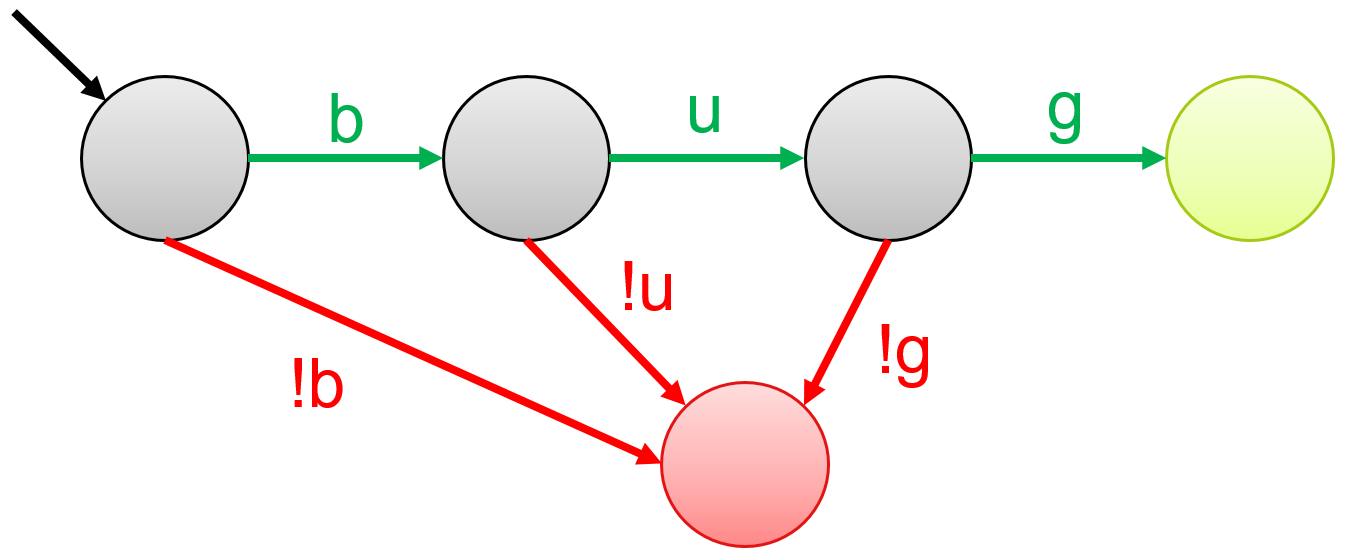
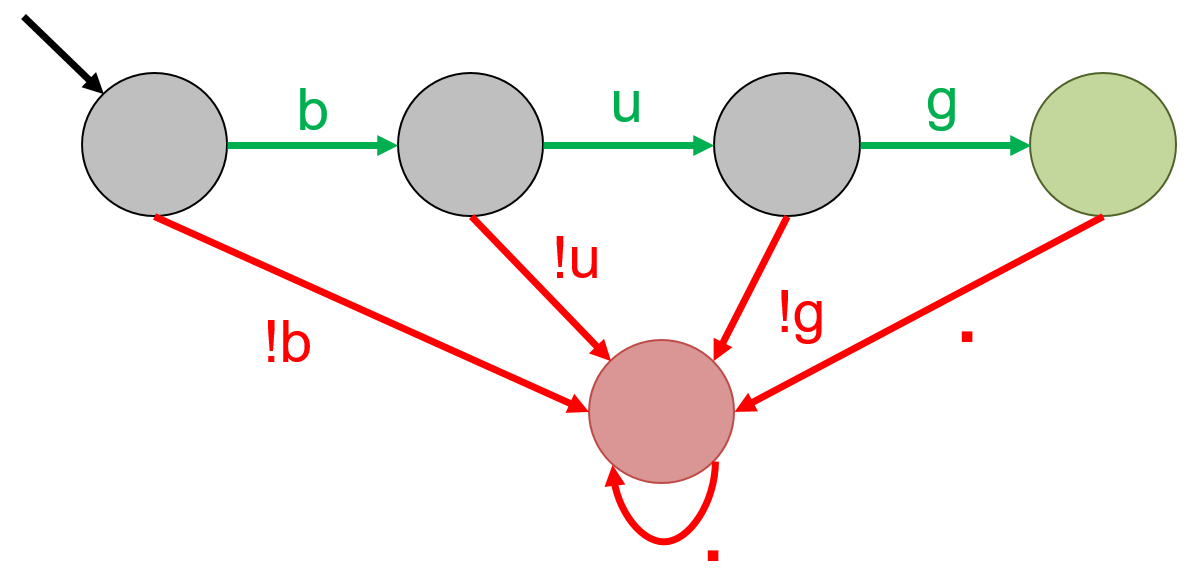
Improved readability for static testing chap

diff --git a/chapters/intelligent-testing/static-testing.md b/chapters/intelligent-testing/static-testing.md
@@ -11,30 +11,30 @@ The classical approach underlying static analysis is checking the code for poten
 
 ## Pattern matching
 
-Pattern matching is a code checking approach that searches for pre-defined patterns in code. A **Regular expression** or RegEx is a sequence of characters that represent a pattern. Simply put, a regex engine reads code character-by-character and upon every character-match, progresses through the regular expression until no more characters remain. Depending on the logic, either a positive/negative reaction is returned indicating whether the final state was an accepting/rejecting state, or all code snippets that matched the pattern are returned.
+Pattern matching is a code checking approach that searches for pre-defined patterns in code. A common way to represent a pattern is via **regular expressions** or RegEx. Simply put, a regex engine reads input character-by-character and upon every character-match, progresses through the regular expression until no more characters remain. In case a match cannot be found, the regex engine backtracks and tries alternate paths to find a match. Depending on the logic, either a positive/negative reaction is returned indicating whether a match was found or not, or all matching inputs are returned.
 
-Regular expressions are usually represented using ***Finite State Automaton***. Each _node_ represents a state. We move from one state to the next by taking the _transition_ that matches the input symbol. Below you see a few examples of regular expressions and their corresponding finite state automata. The node with a black arrow is called the _starting state_. _Green states_ are accepting states. Any state other than accepting states is a rejecting state, e.g. _red_ and _gray states_ are rejecting states in the examples below. Note that while traversing the automaton, if the final state is not an accepting state, the string is considered rejected.
+An easy way to visualize a regular expression is via ***Finite State Automaton***. Each _node_ represents a state. We move from one state to the next by taking the _transition_ that matches the input symbol. Below you see a few examples of regular expressions and their corresponding finite state automata. The node with a black arrow is called the _starting state_. _Green states_ are accepting states. Any state other than accepting states is a rejecting state, e.g. _red_ and _gray states_ are rejecting states in the examples below. Note that while traversing the automaton, if the final state is not an accepting state, the string is considered rejected.
 
-The automata for the regular expression '**bug**' is shown below. An input string `bug` will transition from left to right, until we end up in the green state. However, the string `bag` will move from first state to the second state, and then to the red state. Since there is no transition out of this state, we will stay here until the input finishes. Similarly, the string `bu` will also be rejected since its final state is not a green state.
+The automaton for the regular expression '**bug**' is shown below. `.` is a wildcard character that can match any possible character. An input string `bug` will transition from left to right, until we end up in the green state. However, the string `bag` will move from first state to the second state, and then to the red state. Since there is no transition out of this state, we will stay here until the input finishes. Similarly, the string `bu` will also be rejected since its final state is not a green state.
 
 
 
 ![FSM for bug](img/static-testing/regex1.png)
 
 
-Regex also have options to introduce wildcard characters. For example, the regular expression '**.\*bug**' results in the following automata. `.` denotes any possible character, and `*` denotes *0 or many times*. Hence, it accepts any string that ends in _bug_. The following strings will be accepted by this pattern: `bug`, `this is a bug`, `bad bug`, and `bugbug`. `bug!` will be rejected by this pattern. Note that this is a non-deterministic automata since there are two possible transitions for the symbol `b` in the first state.
+The regular expression '**.\*bug**' results in the following automaton. Again, `.` matches any possible character, and `*` denotes *0 or many times*. Hence, the regex accepts any string that ends in _bug_. The following strings will be accepted by this pattern: `bug`, `this is a bug`, `bad bug`, and `bugbug`. `bug!` will be rejected by this pattern. Note that this is a non-deterministic automata since there are two possible transitions for the symbol `b` in the first state.
 
 
 
 ![FSM for .*bug](img/static-testing/regex2.png)
 
 
-The automata for '**.\*bug.\***' is given below. It will accept any string that contains `b`, `u`, `g` consecutively, at least once. In this case, even `bug!` will be accepted.
+The automaton for '**.\*bug.\***' is given below. It will accept any string that contains `b`, `u`, `g` consecutively, at least once. In this case, even `bug!` will be accepted.
 
 
 ![FSM for .*bug.*](img/static-testing/regex3.png)
 
-While regular expressions are a fast and powerful pattern matching technique, their biggest limitation is that they don't take semantics into account, ending up with many false positives. For example, consider the following code snippet. Suppose that the regular expression, `\s*System.out.println\(.*\);`, searches for all print statements in the code to remove them before deployment. It will find three occurrences in the code snippet, which are all FPs because the code is already disabled by a flag.
+While regular expressions are a fast and powerful pattern matching technique, their biggest limitation is that they do not take semantics into account, ending up with many matches that are not meaningful. For example, consider the following code snippet. Suppose that the regular expression, `\s*System.out.println\(.*\);`, searches for all print statements in the code to remove them before deployment. It will find three occurrences in the code snippet, which are all meaningless because the code is already disabled by a flag.
 
 ```java
 boolean DEBUG = false;
@@ -48,7 +48,7 @@ if (DEBUG){
 
 ## Syntax analysis
 
-A more advanced code checking approach is syntax analysis. It works by deconstructing input code into a stream of characters, that are eventually turned into a Parse Tree. _Tokens_ are hierarchical data structures that are put together according to the code's logical structure.
+A more advanced code checking approach is syntax analysis. It works by deconstructing the input into a stream of characters, that are eventually turned into a Parse Tree. _Tokens_ are hierarchical data structures that are put together according to the code's logical structure.
 
 ![Parser pipeline](img/static-testing/lexer.png)
 
@@ -60,7 +60,7 @@ A **Parse Tree** is a concrete instantiation of the code, where each character i
 
 
 A static analysis tool using syntax analysis takes as input (a) an AST, and (b) a rule-set, and raises an alarm in case a rule is violated.
-For example, for a rule _allowing at most 3 methods_, and the following code snippet, the AST will be parsed and an error will be raised for violating the rule. Contrarily, a very complicated regular expression would be needed to handle the varying characteristics of the four available methods, potentially resulting in false positives.
+For example, for a rule _allowing at most 3 methods_, and the following code snippet, the AST will be parsed and an error will be raised for violating the rule. Contrarily, a very complicated regular expression would be needed to handle the varying characteristics of the four available methods, potentially resulting in mistakes.
 
 
 ![AST rule enforcement](img/static-testing/ast-usecase1.png)
@@ -70,9 +70,9 @@ Abstract Syntax Trees are used by compilers to find semantic errors &mdash; comp
 
 ## Performance of static analysis
 
- Typically, static analysis produces _sound_ results, i.e. zero false negatives. This is because the tools have access to the whole codebase, and they can track all the possible execution paths a program might take. So, if there are _any_ vulnerabilities, the tool should be able to find them. However, this comes at the cost of _Completeness_. Because it tracks all possible execution paths without seeing how the application behaves in action, some of the results might never be reached in an actual execution scenario, resulting in false positives.
+ Theoretically, static analysis produces _sound_ results, i.e. zero false negatives. This is because a static analysis tool has access to the whole codebase, and it can track all the possible execution paths a program might take. So, if there are _any_ vulnerabilities, the tool should be able to find them. However, this comes at the cost of _Completeness_. Because it tracks all possible execution paths without seeing how the application behaves in action, some of the results might never be reached in an actual execution scenario, resulting in false positives.
 
- >Note that static analysis _can produce unsound results_ if a piece of code is added at runtime, because then the analysis will not be done on the new code-piece. This is one reason why the signatures that static analysis uses to detect bugs need to be kept up-to-date as the codebase evolves. However, this strategy will still not work for dynamically induced bugs.
+ >Note that in practice, static analysis tools _can produce unsound results_, e.g. if a piece of code is added at runtime, since the tool will fail to see the new code-piece. This is one reason why the results of static analysis cannot always be trusted, especially in a security context.  
 
 
 {% hint style='tip' %} _Soundness_ and _Completeness_ are defined more extensively in the Security testing chapter. {% endhint %}
@@ -85,7 +85,7 @@ Abstract Syntax Trees are used by compilers to find semantic errors &mdash; comp
 3. Define wild cards
 4. Detect coding mistakes
 
-**Exercise 2.** Given that a static analysis tool can view the entire codebase, what is the quality of results that the analysis will produce?
+**Exercise 2.** Given that a static analysis tool has access to the entire codebase prior to execution, what is the quality of results that the tool will produce?
 1. Sound and Complete
 2. Sound but Incomplete
 3. Unsound but Complete
